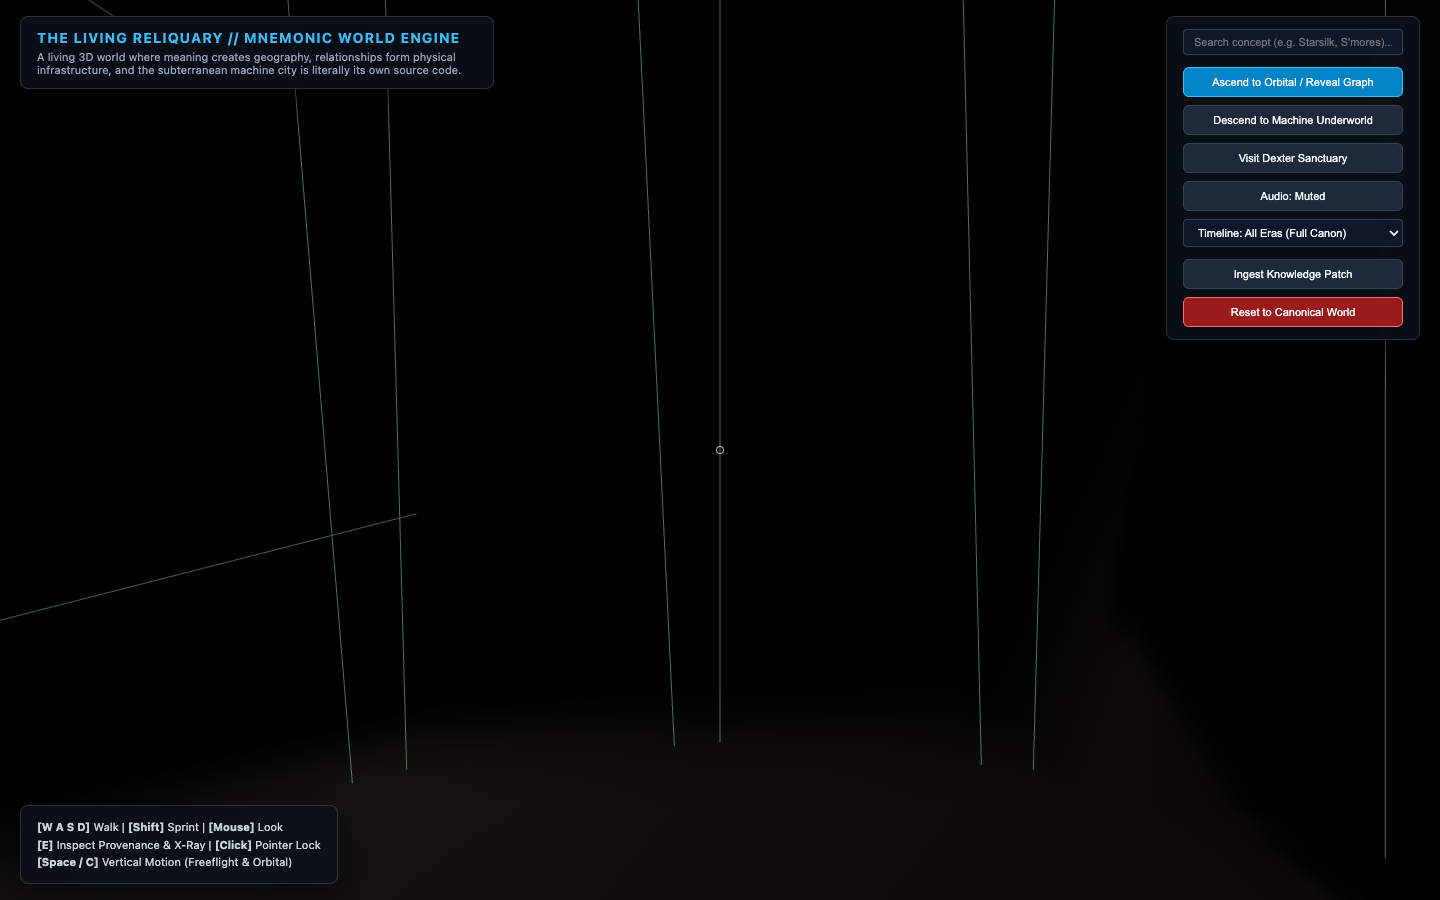
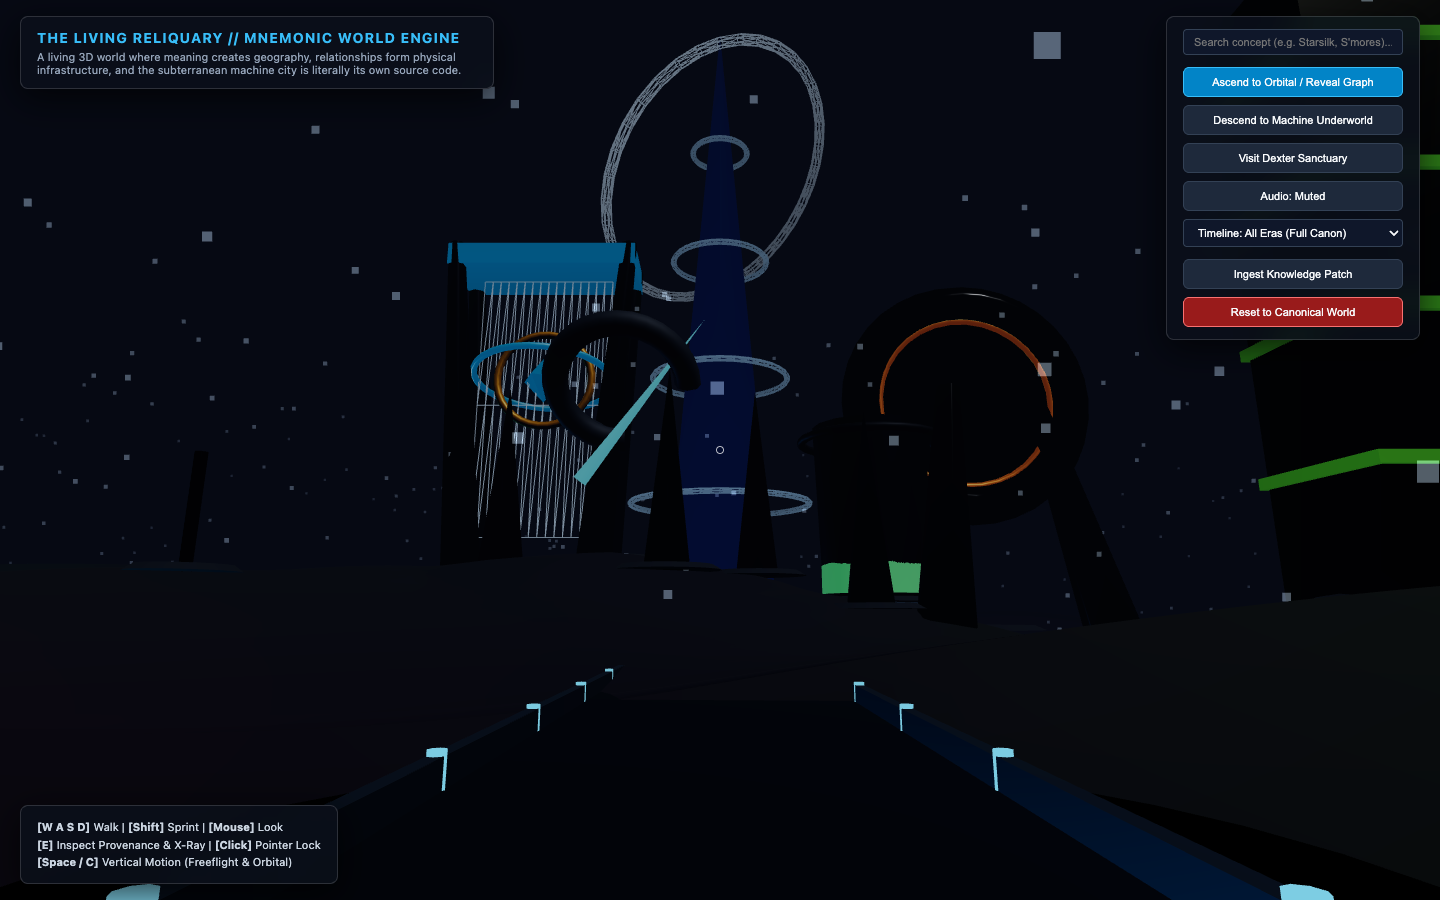
refine(loop-04): diegetic physical navigation triggers for central machine shaft and celestial spire

diff --git a/src/world/MnemonicEngine.ts b/src/world/MnemonicEngine.ts
@@ -322,6 +322,21 @@ export class MnemonicEngine {
       if (gyro) gyro.rotation.x = time * 1.5;
     }
 
+    // Diegetic Proximity Zone Triggers:
+    // 1. Walking into Central Shaft (0, 0) physically descends player down into the Machine Underworld
+    const dDescent = Math.hypot(this.player.position.x, this.player.position.z);
+    if (!this.player.isFreeFlight && dDescent < 6 && this.player.position.y > -15) {
+      this.soundscapes.playPulseTone(110, 0.5);
+      this.player.teleport(new THREE.Vector3(0, -38, 14), new THREE.Vector3(0, -35, 0));
+      this.dispatchRuntimeEvent({ type: 'MOVE', velocity: 10 });
+    }
+
+    // 2. Climbing the Celestial Spire apex (0, -105) lifts the player into Orbital Macrocosm mode
+    const dSpire = Math.hypot(this.player.position.x - 0, this.player.position.z - (-105));
+    if (!this.graphRenderer.isVisible && dSpire < 8 && this.player.position.y > 45) {
+      this.ui.events.onOrbitalToggle?.(true);
+    }
+
     // Update subterranean machine conduits
     this.machineCity.update(time);
 
